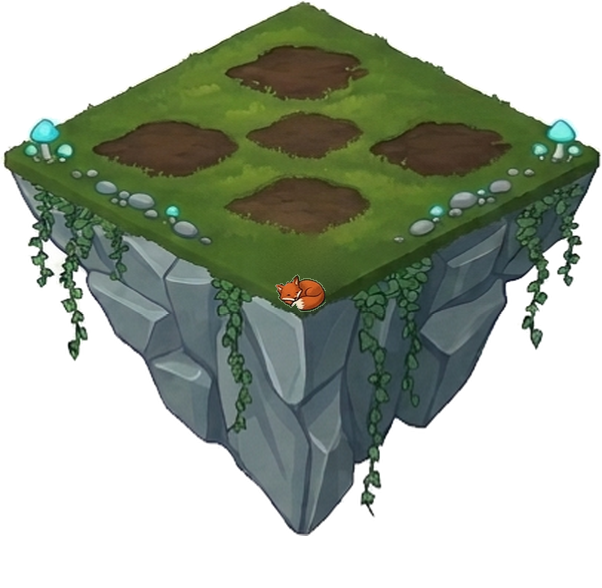
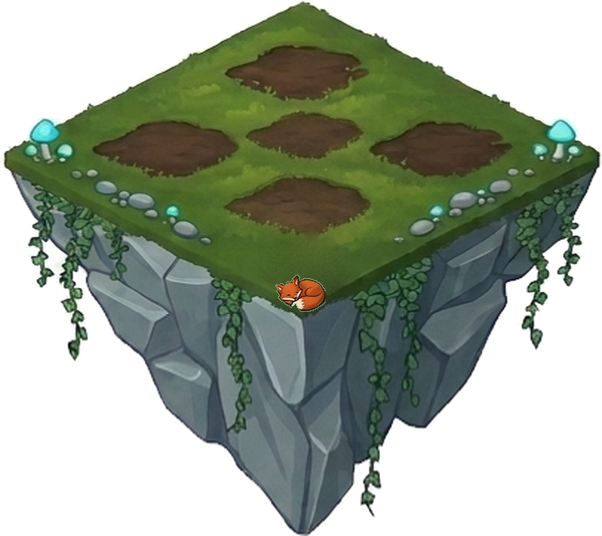
fix(islands): 實體裁切 6x6~9x9 島嶼素材去除底部多餘空白並簡化視角算法 (v20261122x)

diff --git a/app.js b/app.js
@@ -6,7 +6,7 @@ import {
   isLastDayOfMonth,
   computeNeighborAdjustedScales,
   calcPlantLevel
-} from './engine.js?v=20261122w';
+} from './engine.js?v=20261122x';
 import {
   GardenStore,
   DEMO_ESSAY_ID,
@@ -16,12 +16,12 @@ import {
   saveDemoEssayCardStyle,
   getDemoEssayReactions,
   saveDemoEssayReactions
-} from './store.js?v=20261122w';
-import { CloudGardenStore } from './cloud-store.js?v=20261122w';
-import { SESSION_STORAGE_KEY } from './cloud-client.js?v=20261122w';
-import { bgManager } from './bg-manager.js?v=20261122w';
+} from './store.js?v=20261122x';
+import { CloudGardenStore } from './cloud-store.js?v=20261122x';
+import { SESSION_STORAGE_KEY } from './cloud-client.js?v=20261122x';
+import { bgManager } from './bg-manager.js?v=20261122x';
 
-const ASSET_VER = '20261122w';
+const ASSET_VER = '20261122x';
 const TAIL_PULL_THRESHOLD_PX = 52;
 
 const CARD_STYLES = [
@@ -827,14 +827,14 @@ const FULL_VB_X = -300;
 const FULL_VB_W = 600;
 const FULL_VB_H = 580;
 
-// 6x6~9x9 素材圖片下方繪製時帶有大片純透明空白（如 8x8 留白 74px、9x9 留白 96px）
-// 此處記錄每種尺寸真實可視圖素的高度比率，用以精確扣除空白計算可視中心與真實尖端
-const ISLAND_VISUAL_H_RATIO = {
-  5: 1.0,
-  6: 473 / 504,
-  7: 536 / 588,
-  8: 598 / 672,
-  9: 660 / 756
+// 5x5~9x9 島嶼底座已實體裁切去除底部無意義純透明空白
+// 此處對應各尺寸在 SVG 幾何空間中的真實寬高
+const ISLAND_DIMS = {
+  5: { w: 420, h: 410 },
+  6: { w: 504, h: 462 },
+  7: { w: 588, h: 524 },
+  8: { w: 672, h: 584 },
+  9: { w: 756, h: 645 }
 };
 
 function alignFullIslandViewBox(regionSize) {
@@ -849,21 +849,17 @@ function alignFullIslandViewBox(regionSize) {
   const navTop = navEl ? navEl.getBoundingClientRect().top : winH - 65;
 
   const N = Math.min(9, Math.max(5, regionSize || BASE_GRID_N));
-  const islandScale = N / BASE_GRID_N;
-  const islY = -175 * islandScale;
-  const islH = 410 * islandScale;
+  const dims = ISLAND_DIMS[N] || { w: 420 * (N / BASE_GRID_N), h: 410 * (N / BASE_GRID_N) };
+  const islY = -175 * (N / BASE_GRID_N);
+  const islH = dims.h;
+  const bottomY = islY + islH;
+  const centerY = islY + islH / 2;
 
-  // 扣除素材底部無意義純透明空白後的真實可視高度、中心與尖端
-  const ratio = ISLAND_VISUAL_H_RATIO[N] || 1.0;
-  const realH = islH * ratio;
-  const realBottomY = islY + realH;
-  const realCenterY = islY + realH / 2;
-
-  // 目標中心：調低至視窗中心下方 80px，地表與神木處於視覺中央；底線：真實泥土尖端絕不插入最下方選單
-  const targetScreenY = winH / 2 + 80;
+  // 目標中心：對齊至視窗中心偏上 50px（使用者原則：中心高度 = 視窗中心高度 - 50px）；底線：泥土尖端絕不插入最下方選單
+  const targetScreenY = winH / 2 - 50;
   const svgBaseCenterY = sr.top + sr.height / 2;
-  const vbCyTarget = realCenterY - (targetScreenY - svgBaseCenterY) / scale;
-  const vbCyMin = realBottomY - ((navTop - 12) - svgBaseCenterY) / scale;
+  const vbCyTarget = centerY - (targetScreenY - svgBaseCenterY) / scale;
+  const vbCyMin = bottomY - ((navTop - 12) - svgBaseCenterY) / scale;
   const vbCy = Math.max(vbCyTarget, vbCyMin);
   const vbY = vbCy - FULL_VB_H / 2;
   fullSvg.setAttribute('viewBox', `${FULL_VB_X} ${vbY.toFixed(1)} ${FULL_VB_W} ${FULL_VB_H}`);
@@ -877,17 +873,17 @@ function renderIsometricIsland(evalData, options = {}) {
   const pan = options.pan || { x: 0, y: 0 };
   const zoom = options.zoom || 1;
 
-  // 擴地時整座島嶼土地按 N / 5 比例真實變大（格子與植物保持原尺寸不縮小）
-  const islandScale = N / BASE_GRID_N;
-  const islW = 420 * islandScale;
-  const islH = 410 * islandScale;
-  const islX = -210 * islandScale;
-  const islY = -175 * islandScale;
-
-  // 1. 底層：依當前尺寸 N (5x5 ~ 9x9) 載入對應獨立繪製的 2.5D 立體浮空島底座圖
+  // 依當前尺寸 N 取得已裁切底座之幾何尺寸（寬度依照 N / 5 等比放大，高度為素材真實高度）
   const clampedN = Math.min(9, Math.max(5, N));
+  const dims = ISLAND_DIMS[clampedN] || { w: 420 * (clampedN / BASE_GRID_N), h: 410 * (clampedN / BASE_GRID_N) };
+  const islW = dims.w;
+  const islH = dims.h;
+  const islX = -islW / 2;
+  const islY = -175 * (clampedN / BASE_GRID_N);
+
+  // 1. 底層：載入已實體裁切之 2.5D 立體浮空島底座圖
   const svg = `
-    <image href="./assets/islands/${theme}_${clampedN}x${clampedN}.png?v=${ASSET_VER}" x="${islX.toFixed(1)}" y="${islY.toFixed(1)}" width="${islW.toFixed(1)}" height="${islH.toFixed(1)}" preserveAspectRatio="xMidYMid meet"/>`;
+    <image href="./assets/islands/${theme}_${clampedN}x${clampedN}.png?v=${ASSET_VER}" x="${islX.toFixed(1)}" y="${islY.toFixed(1)}" width="${islW.toFixed(1)}" height="${islH.toFixed(1)}" preserveAspectRatio="none"/>`;
 
   // 2. 依設定檔 spriteScale 規格與等距網格動態換算渲染大小，再交由 computeNeighborAdjustedScales 處理相鄰等比縮小
   const { standardSpriteWidth, tileWidth, maxAdjacentTiles } = config.spriteScale;

diff --git a/cloud-store.js b/cloud-store.js
@@ -7,9 +7,9 @@ import {
   getStreakMultiplier,
   evaluatePlantState,
   calculateBeauty
-} from './engine.js?v=20261122w';
-import { createMemoryStorage, DEMO_ESSAY_ID, buildDemoWelcomeEssay } from './store.js?v=20261122w';
-import { CloudClient, SESSION_STORAGE_KEY } from './cloud-client.js?v=20261122w';
+} from './engine.js?v=20261122x';
+import { createMemoryStorage, DEMO_ESSAY_ID, buildDemoWelcomeEssay } from './store.js?v=20261122x';
+import { CloudClient, SESSION_STORAGE_KEY } from './cloud-client.js?v=20261122x';
 
 export const CLOUD_STATE_STORAGE_KEY = 'essay_garden_state_v4';
 export const CARD_STYLE_STORAGE_KEY = 'essay_garden_card_style_v1';

diff --git a/store.js b/store.js
@@ -12,7 +12,7 @@ import {
   evaluatePlantState,
   calculateBeauty,
   resolveGroupThemeVote
-} from './engine.js?v=20261122w';
+} from './engine.js?v=20261122x';
 
 export const DEMO_ESSAY_ID = 'essay_demo_welcome';
 export const DEMO_CARD_STYLE_KEY = 'essay_garden_demo_card_style_v1';

diff --git a/index.html b/index.html
@@ -399,6 +399,6 @@
     </div>
   </div>
 
-  <script type="module" src="./app.js?v=20261122w"></script>
+  <script type="module" src="./app.js?v=20261122x"></script>
 </body>
 </html>

diff --git a/test_verification.py b/test_verification.py
@@ -8,7 +8,7 @@ import threading
 from playwright.sync_api import sync_playwright
 
 ROOT_DIR = r"d:\Antigravity workspaces\交通美地"
-ASSET_VER = "20261122w"
+ASSET_VER = "20261122x"
 
 
 def load_text(name):
